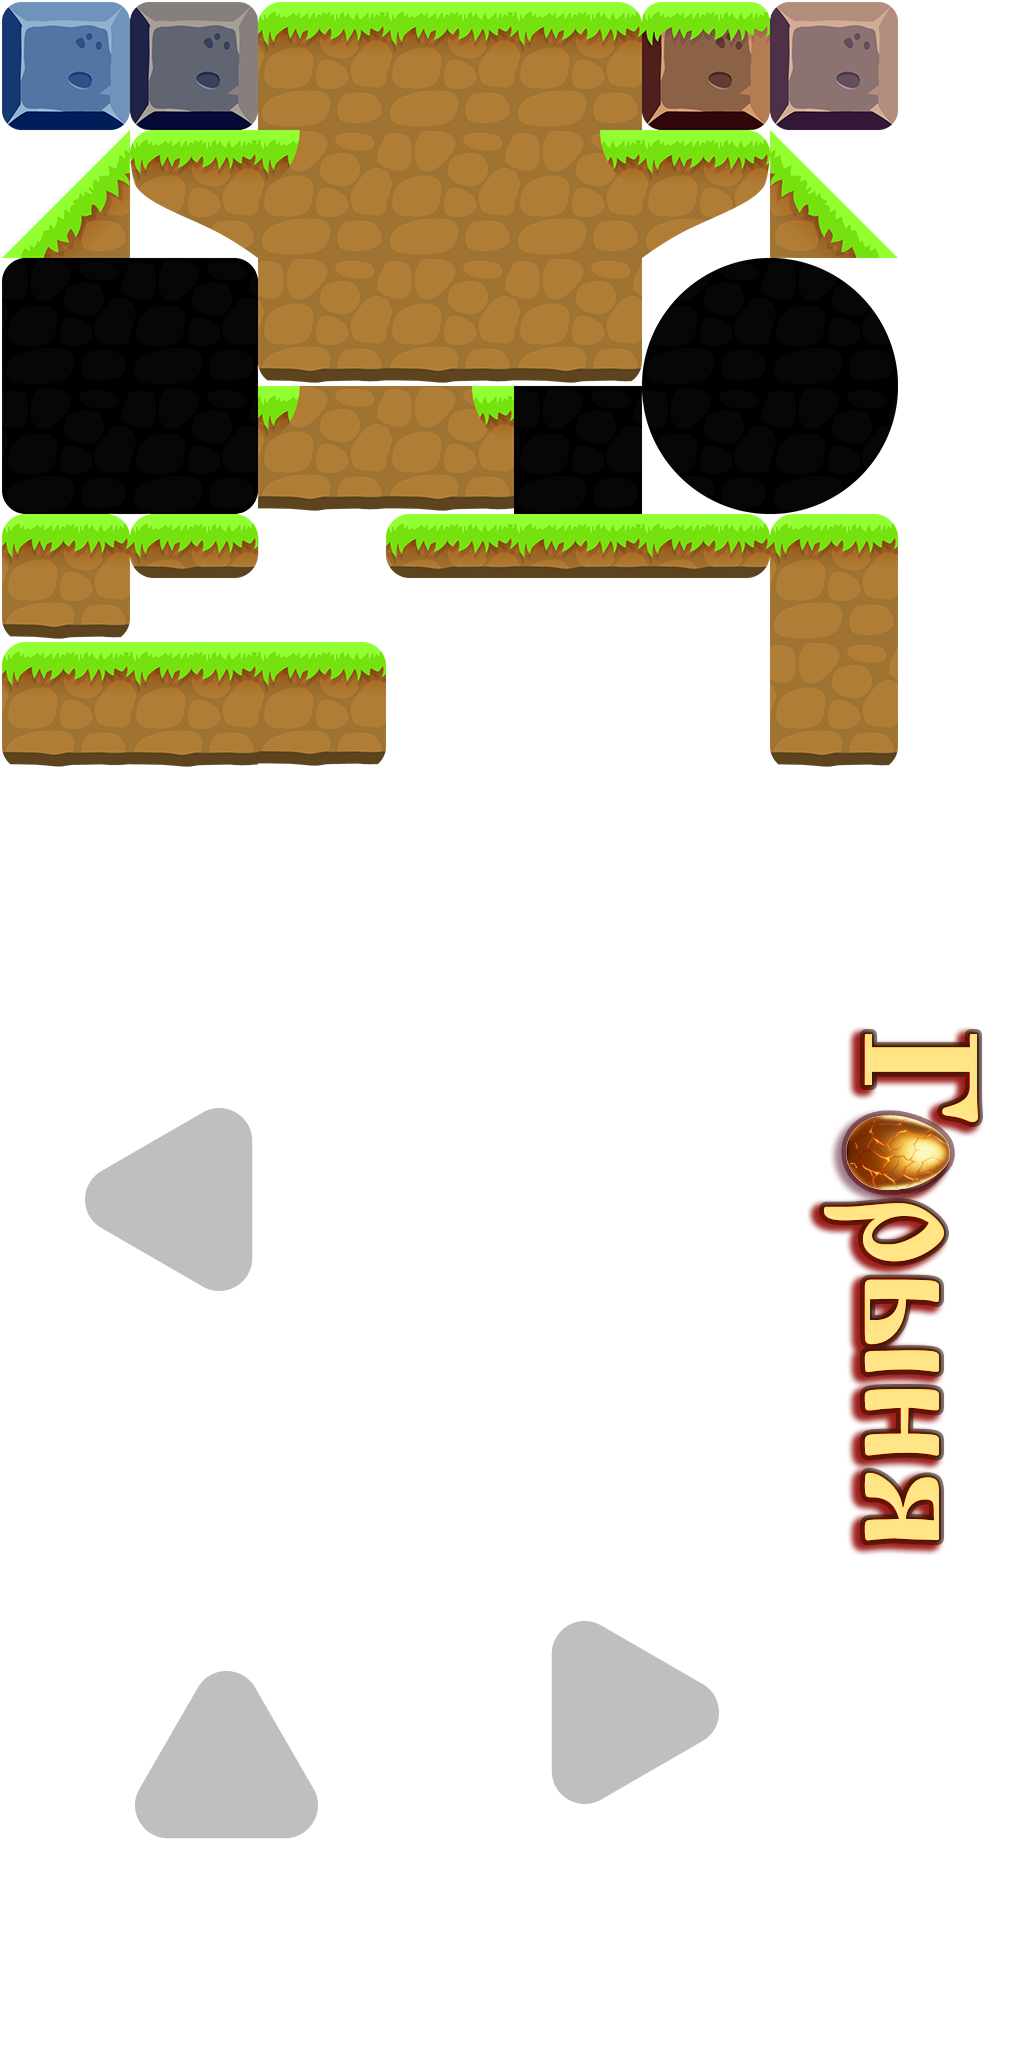
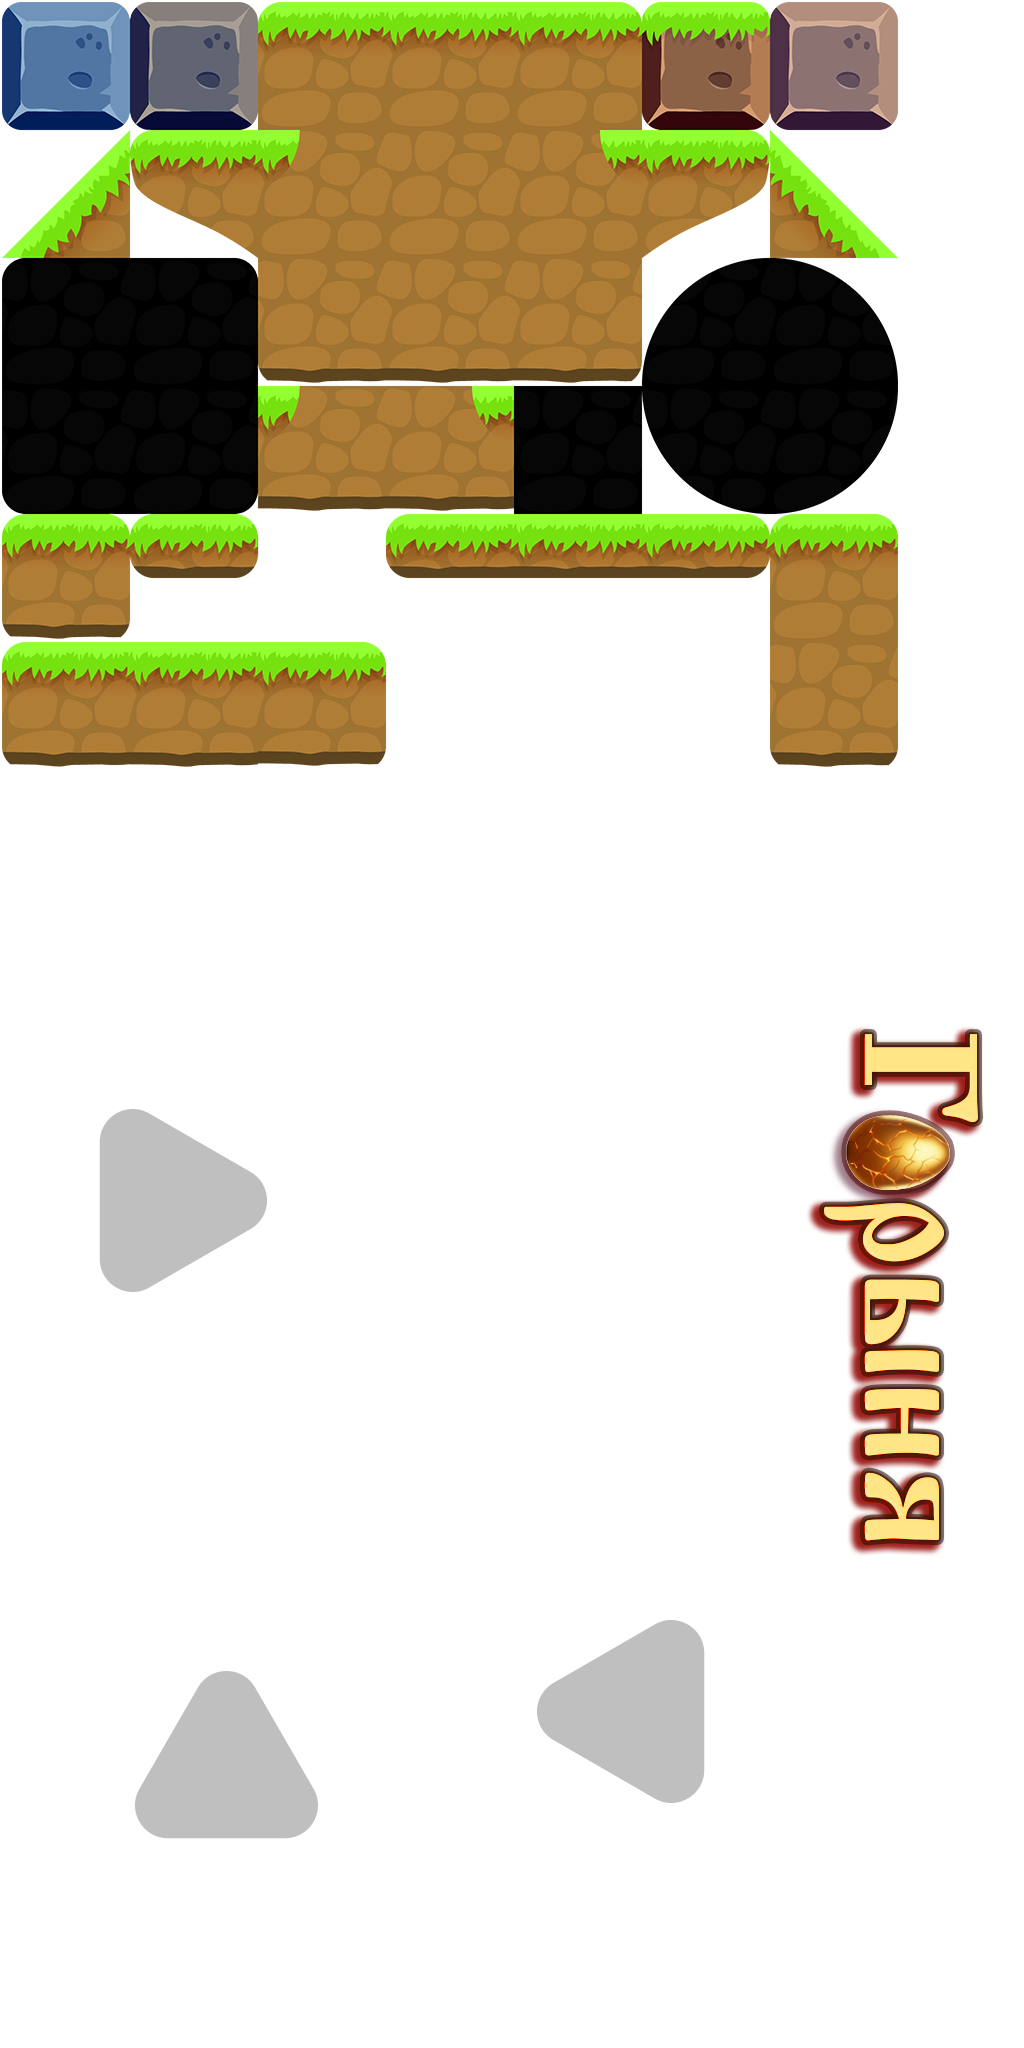
35

Changed region(s): [[0.0625, 0.5312, 0.2812, 0.6562], [0.5312, 0.7812, 0.7188, 0.9062]]

diff --git a/scripts/objRefTable.js b/scripts/objRefTable.js
@@ -80,6 +80,9 @@ self.C3_JsPropNameTable = [
 	{btn_jump: 0},
 	{btn_left: 0},
 	{btn_right: 0},
+	{area_jump: 0},
+	{area_left: 0},
+	{area_right: 0},
 	{icon_star: 0},
 	{settings: 0},
 	{heart_icon: 0},
@@ -117,6 +120,9 @@ self.InstanceType = {
 	btn_jump: class extends self.ISpriteInstance {},
 	btn_left: class extends self.ISpriteInstance {},
 	btn_right: class extends self.ISpriteInstance {},
+	area_jump: class extends self.ISpriteInstance {},
+	area_left: class extends self.ISpriteInstance {},
+	area_right: class extends self.ISpriteInstance {},
 	icon_star: class extends self.ISpriteInstance {},
 	settings: class extends self.ISpriteInstance {},
 	heart_icon: class extends self.ISpriteInstance {},
